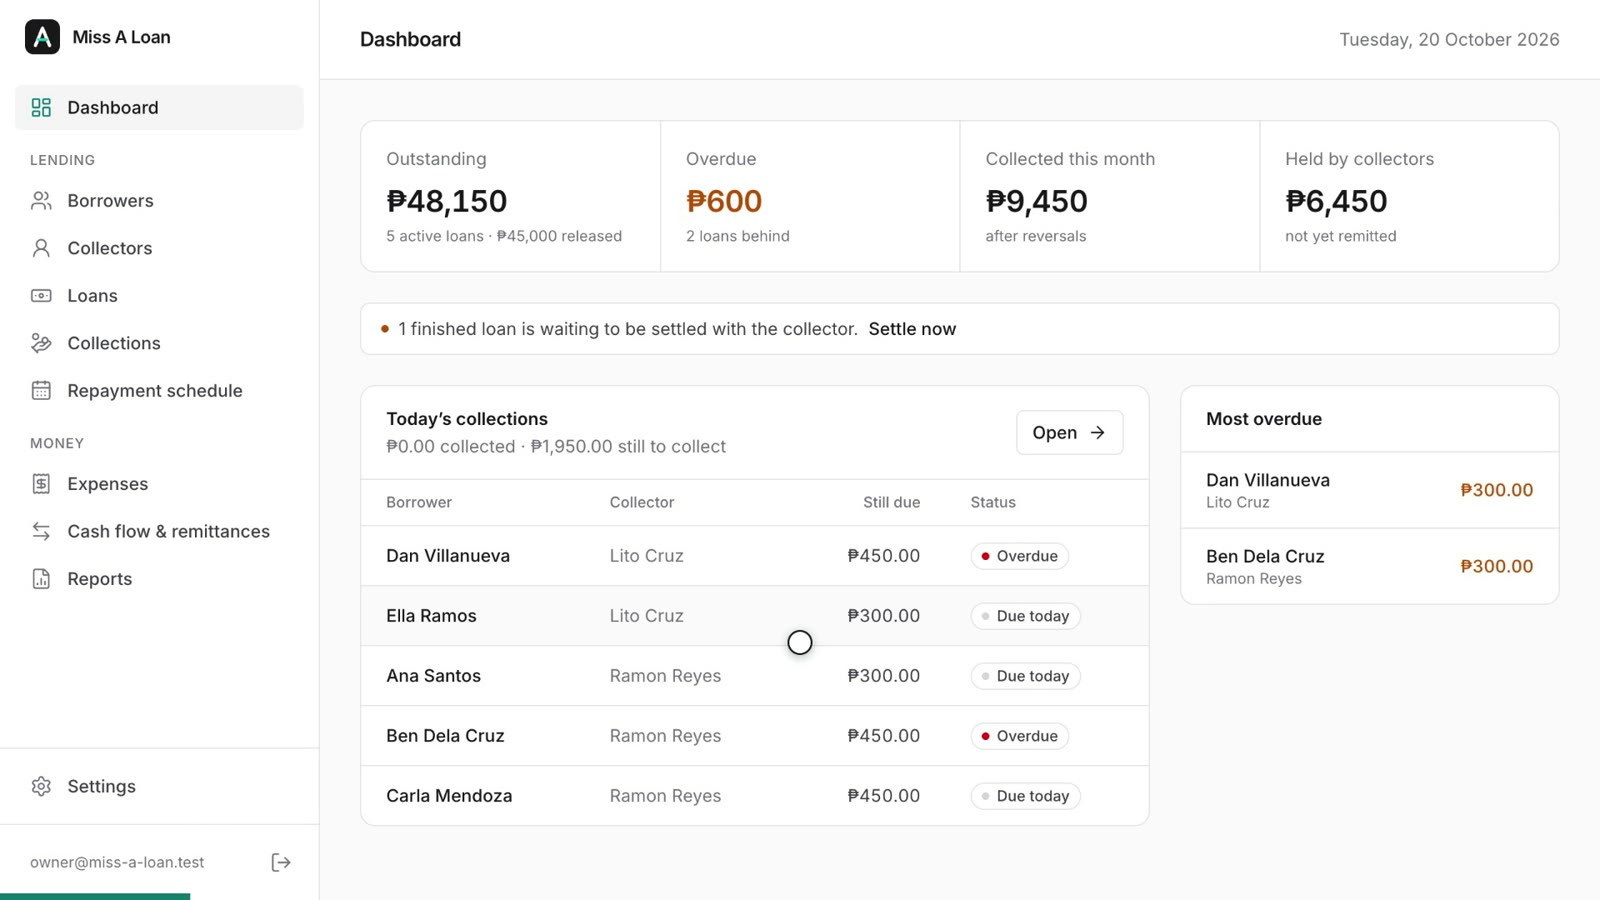
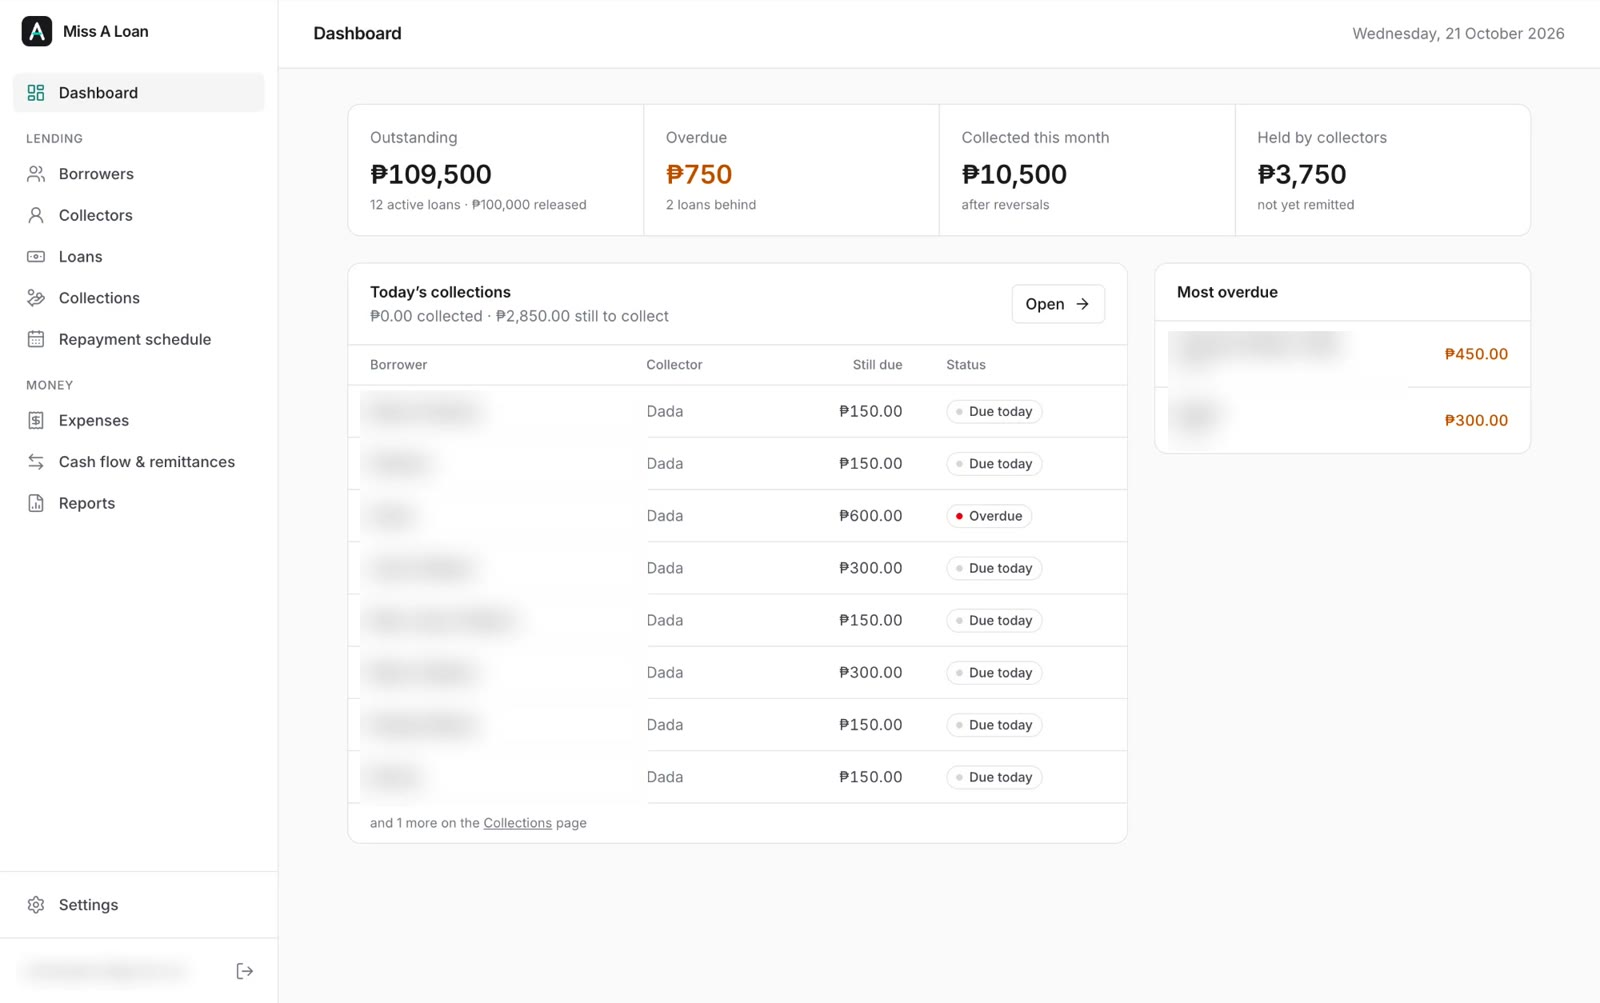
feat: new Miss A Loan and AppointCare screenshots, updated stacks, thicker light-mode progress bar

diff --git a/app/data/projects.ts b/app/data/projects.ts
@@ -10,7 +10,7 @@ import studyWithMeImage2 from "public/images/studywithmeImage2.jpg";
 import studyWithMeImage3 from "public/images/studywithmeImage3.jpg";
 import eventmasterImage1 from "public/images/eventmasterImage1.png";
 import insurechainImage2 from "public/images/insurechainImage2.png";
-import appointCareImage2 from "public/images/appointcareImage2.jpeg";
+import appointCareImage3 from "public/images/appointcareImage3.jpg";
 import snackSociety from "public/images/snack_society.jpg";
 import mealApp1 from "public/images/mealapp_picture1.jpg";
 import mealApp2 from "public/images/mealapp_picture2.jpg";
@@ -75,18 +75,21 @@ export const projects: Project[] = [
   {
     title: "AppointCare",
     description:
-      "Doctor–patient appointment system for web and mobile. Enables scheduling and record management with React, Node.js, and Kotlin.",
+      "Telehealth platform where patients find doctors on a map, book consultations and meet over video. Includes real-time notifications, appointment calendars, medical records and AI assistance.",
     tech: [
       "NextJS",
-      "NodeJS",
-      "Express",
+      "TypeScript",
       "MongoDB",
-      "Zustand",
       "Clerk",
+      "Zustand",
+      "Stream Video",
+      "Pusher",
       "Leaflet",
+      "Cloudinary",
+      "Gemini AI",
     ],
     platform: "Website",
-    image: [appointCareImage2],
+    image: [appointCareImage3],
     repo: "https://github.com/lancekian12/Telehealth-App",
     demo: "https://wc-telehealth-app.vercel.app/finddoctor",
   },

diff --git a/app/data/data.ts b/app/data/data.ts
@@ -9,6 +9,7 @@ export const frontend: Language = [
   "Bulma",
   "React.js",
   "Next.js",
+  "Angular",
   "Dart",
   "Flutter",
   "Typescript",
@@ -27,6 +28,8 @@ export const backend: Language = [
   "PostgreSQL",
   "MySQL",
   "MongoDB",
+  "Supabase",
+  "Clerk",
 ];
 
 export const devops: Language = [
@@ -34,6 +37,7 @@ export const devops: Language = [
   "GitHub",
   "Figma",
   "Docker",
+  "Playwright",
   "Slack",
   "Trello",
   "Netlify",

diff --git a/app/components/ScrollProgress.tsx b/app/components/ScrollProgress.tsx
@@ -10,7 +10,7 @@ const ScrollProgress: React.FC = () => {
   return (
     <motion.div
       aria-hidden
-      className="fixed inset-x-0 top-0 z-50 h-[2px] origin-left bg-foreground/80"
+      className="fixed inset-x-0 top-0 z-50 h-[3px] origin-left bg-foreground dark:h-[2px] dark:bg-foreground/80"
       style={{ scaleX }}
     />
   );

diff --git a/app/components/TechStack.tsx b/app/components/TechStack.tsx
@@ -6,6 +6,7 @@ import SectionHeading from "./SectionHeading";
 const stack = [
   "React",
   "Next.js",
+  "Angular",
   "TypeScript",
   "Node.js",
   "Dart",
